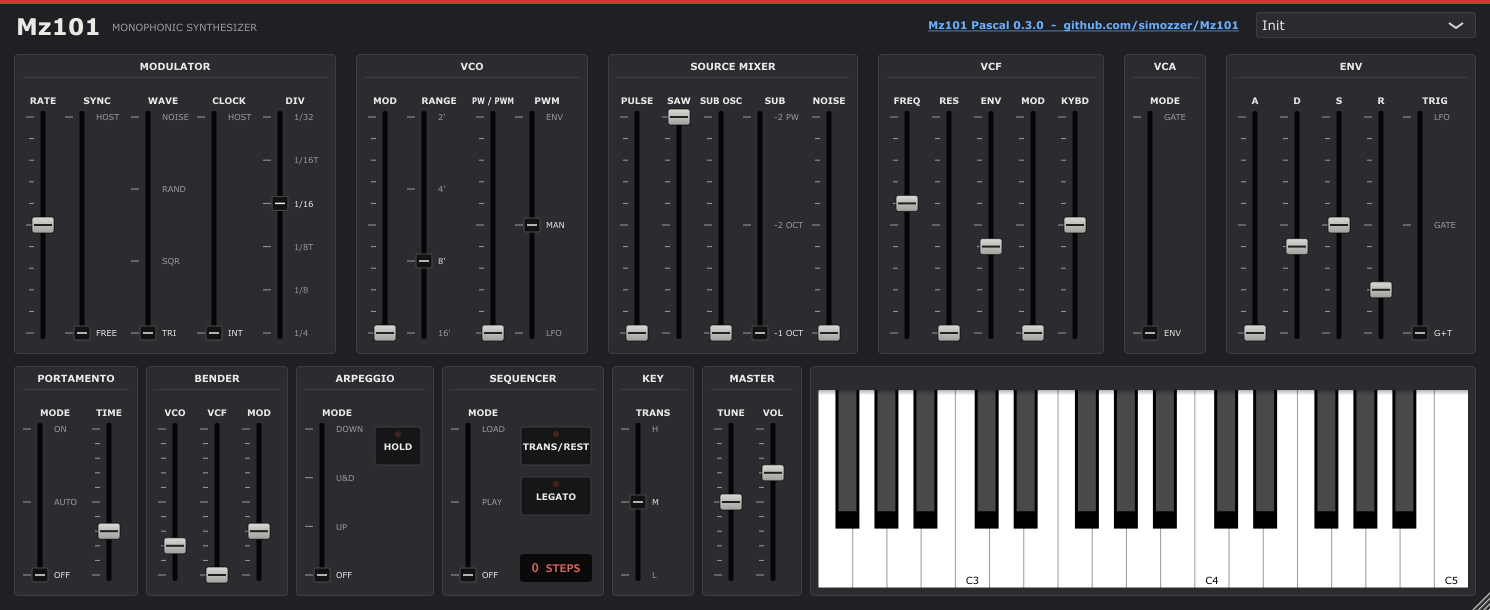
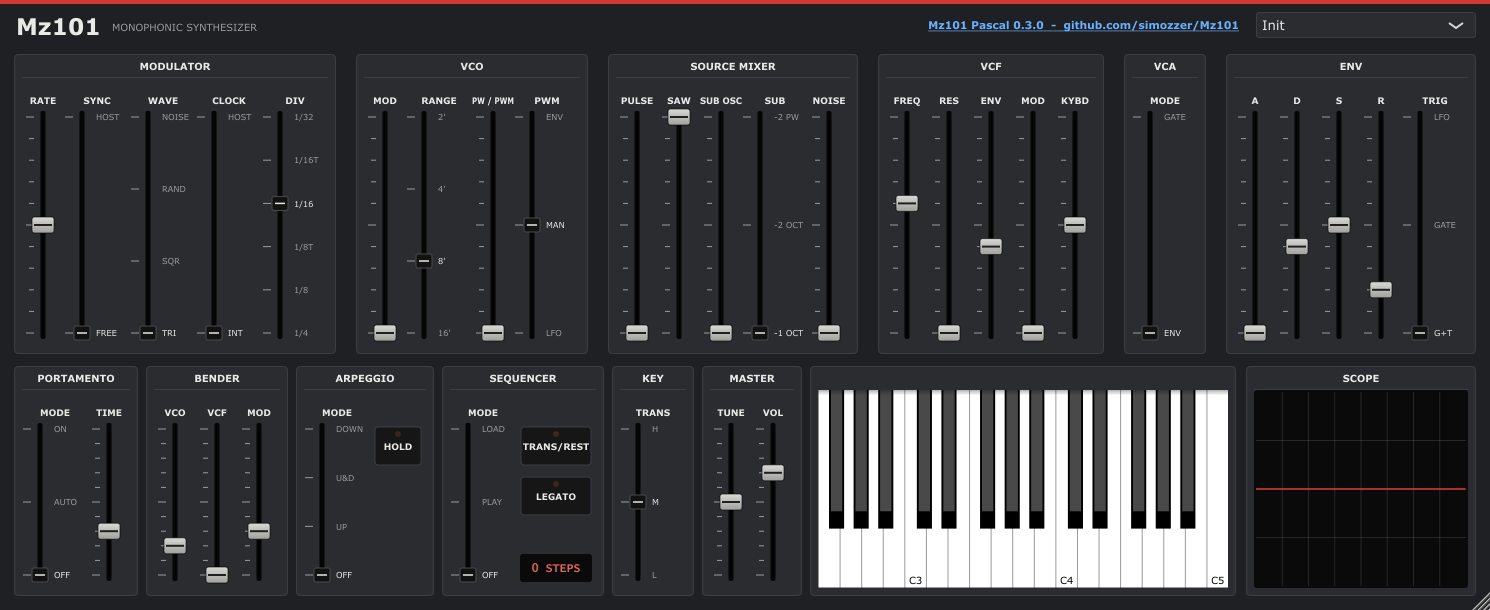
Show the output on a scope in the Mz101 and Pascal Synth panels
Pascal Synth's panel grows to 480 x 300 for a full-width scope under
the knobs. Mz101 keeps its size: the keyboard box narrows (same
range, F2 to C5) to make room for a SCOPE box. The UI references,
pinned sizes, the keyboard click position and the code-built panel
(layout test and PLUGINS.md) follow. PLUGINS.md documents the scope.

Changed region(s): [[0.5557, 0.5918, 0.9879, 0.9656]]

diff --git a/examples/plugins/Mz101/verify/editor_check.cpp b/examples/plugins/Mz101/verify/editor_check.cpp
@@ -218,7 +218,7 @@ const juce::Point<float> holdButton { 374 + 24, 426 + 20 };
 const juce::Point<float> transRest { 520 + 36, 426 + 20 };
 const juce::Point<int> transRestLed { 520 + 36, 426 + 8 };
 const juce::Point<float> patchBox { 1256 + 110, 12 + 13 };
-const juce::Point<float> keyC4 { 818 + 11 * (650.0f / 19.0f) + 17.0f, 390 + 180 };
+const juce::Point<float> keyC4 { 818 + 11 * (410.0f / 19.0f) + 10.0f, 390 + 180 };
 constexpr float rateX = 14 + 8 + 21;              // MODULATOR RATE fader's centre
 constexpr float syncX = 14 + 50 + 18;             // SYNC switch's slot
 const juce::Point<float> projectLink { 1230, 12 + 13 };

diff --git a/tests/editor_test.cpp b/tests/editor_test.cpp
@@ -308,7 +308,7 @@ int main()
               "custom Pascal editor created");
         if (editor == nullptr)
             return 1;
-        check(editor->getWidth() == 480 && editor->getHeight() == 210, "size set by the Pascal editor: "
+        check(editor->getWidth() == 480 && editor->getHeight() == 300, "size set by the Pascal editor: "
                                                                           + juce::String(editor->getWidth()) + " x "
                                                                           + juce::String(editor->getHeight()));
         pump();

diff --git a/docs/PLUGINS.md b/docs/PLUGINS.md
@@ -144,6 +144,8 @@ Host services on `TJucePlugin`:
   continuous changes
 - `SetLatencySamples`
 - `SetMeter`: publish a level for the editor; any thread, real-time safe
+- `ScopeWrite`: send samples to the editor's oscilloscopes (`TJuceScope`)
+  instead of the output; see [Oscilloscopes](#oscilloscopes)
 - `Log`
 
 Called from inside `Prepare`, `Process`, `Reset` or the state methods,
@@ -263,9 +265,9 @@ var
 
 begin
   inherited Create(APlugin);
-  SetSize(480, 210);
+  SetSize(480, 300);
   Panel := TJucePanel.Create(Root);
-  Panel.SetBounds(6, 6, 468, 198);
+  Panel.SetBounds(6, 6, 468, 288);
   Panel.Caption := 'PASCAL SYNTH';
   Panel.Color := $FF30343B;
   Panel.GradientColor := $FF23262B;
@@ -286,6 +288,7 @@ begin
   Caption.Caption := 'OUT';
   Caption.FontSize := 11;
   Caption.Color := Theme.TextDim;
+  TJuceScope.Create(Panel).SetBounds(16, 196, 436, 80); { the output }
   { ... and the help line, a second TJuceLabel }
 end;
 ```
@@ -308,6 +311,7 @@ Code and forms mix freely: load a form, then add or change controls in code.
 | `TJuceDisplay` | a text readout: `Caption` on a plate, in its own `FontName` (e.g. `'Lucida Console'`), `FontSize`, `Bold` and colours; set `Caption` from code | none |
 | `TJuceComboBox` | a drop-down: bound to a choice parameter it lists the parameter's choices (a patch menu); unbound, its `Items` | click for the menu (the current choice ticked), wheel |
 | `TJuceKeyboard` | a piano keyboard, `FirstNote`..`LastNote`, the C keys labelled (`OctaveForMiddleC`); `SetNoteLit` lights keys from code (e.g. notes the host plays, published as meters) | click and drag to play: `OnNoteOn` / `OnNoteOff` |
+| `TJuceScope` | an oscilloscope of the plug-in's output, no code needed: `Channel` (`jscLeft`, `jscRight`, `jscMix`), `TimeMs` across the width, `Gain`, `Trigger` (`jstRising`, `jstFalling` at `TriggerLevel`, or `jstFree`), `ShowGrid` with `GridX` × `GridY` divisions, `LineWidth`, `LineColor`, `GridColor`; see [Oscilloscopes](#oscilloscopes) | none |
 
 Every control has `Left`, `Top`, `Width`, `Height`, `Visible`, `Enabled`,
 `Caption`, `Hint` (tooltip) and `OnContextMenu`. Controls that hold a value
@@ -412,6 +416,44 @@ about JUCE, so the same control can later be drawn on other surfaces.
   JUCE's own). They are sent when the editor opens and before every menu;
   after changing the theme later, call `ThemeChanged`.
 
+### Oscilloscopes
+
+Put a `TJuceScope` on the panel and it shows the plug-in's output. While a
+scope is open, the Pascal side of the wrapper copies the output channels
+into a ring buffer after every `Process` call (32768 samples per channel,
+allocated when the first scope opens, written lock-free). The scope reads
+the newest samples on the editor's timer. With nothing open, the cost is
+one interlocked read per block.
+
+`Trigger` makes a steady wave stand still. Each sweep starts at the latest
+point where the signal rises (or falls) through `TriggerLevel` and still
+has `TimeMs` of samples after it, placed to a fraction of a sample so the
+trace doesn't jitter. With no crossing (silence, a DC offset) or with
+`jstFree`, it shows the newest samples. When the host stops processing, the
+last sweep stays on screen. When the sweep holds more samples than the
+scope is wide in pixels, each pixel column is drawn from its lowest to its
+highest sample, so nothing is lost at long `TimeMs`. `TimeMs` is limited
+to 8191 samples (about 170 ms at 48 kHz).
+
+To show another signal, such as one oscillator or the signal before the
+filter, set `ScopeManual := True` in the plug-in's constructor and call
+`ScopeWrite(Left, Right, Count)` from `Process`. `Right = nil` sends `Left`
+to both channels. Skip the work when `ScopeActive` is `False`:
+
+```pascal
+procedure TMySynth.Process(const Ctx: TJuceProcessContext);
+begin
+  ...
+  if ScopeActive then
+    ScopeWrite(PJuceSampleArray(@FOscBuffer[0]), nil, Ctx.NumSamples);
+end;
+```
+
+In code, `ShowSamples(Samples, Count, Span)` puts samples of your own on a
+scope, with the same triggering. In the form designer, a scope shows a
+sample wave (a 220 Hz tone), so you can judge `TimeMs`, `Gain` and the
+colours while you lay out the panel.
+
 ### Meters the editor predicts
 
 Meters come from `Process`, so a panel that shows DSP state through them
@@ -483,7 +525,7 @@ How it fits together:
   **PascalJUCE** page on the component palette with `TJuceKnob`,
   `TJuceSlider`, `TJuceSwitch`, `TJuceButton`, `TJuceLed`, `TJuceLabel`,
   `TJuceMeter`, `TJucePanel`, `TJuceDisplay`, `TJuceComboBox`,
-  `TJuceKeyboard`, `TJuceLink`, `TJuceImageResource` and `TJuceThemeResource`. They have the same
+  `TJuceKeyboard`, `TJuceLink`, `TJuceScope`, `TJuceImageResource` and `TJuceThemeResource`. They have the same
   class names as the run-time controls, so the saved form names the run-time
   classes directly.
 - Each designer control owns an instance of the real run-time control and
